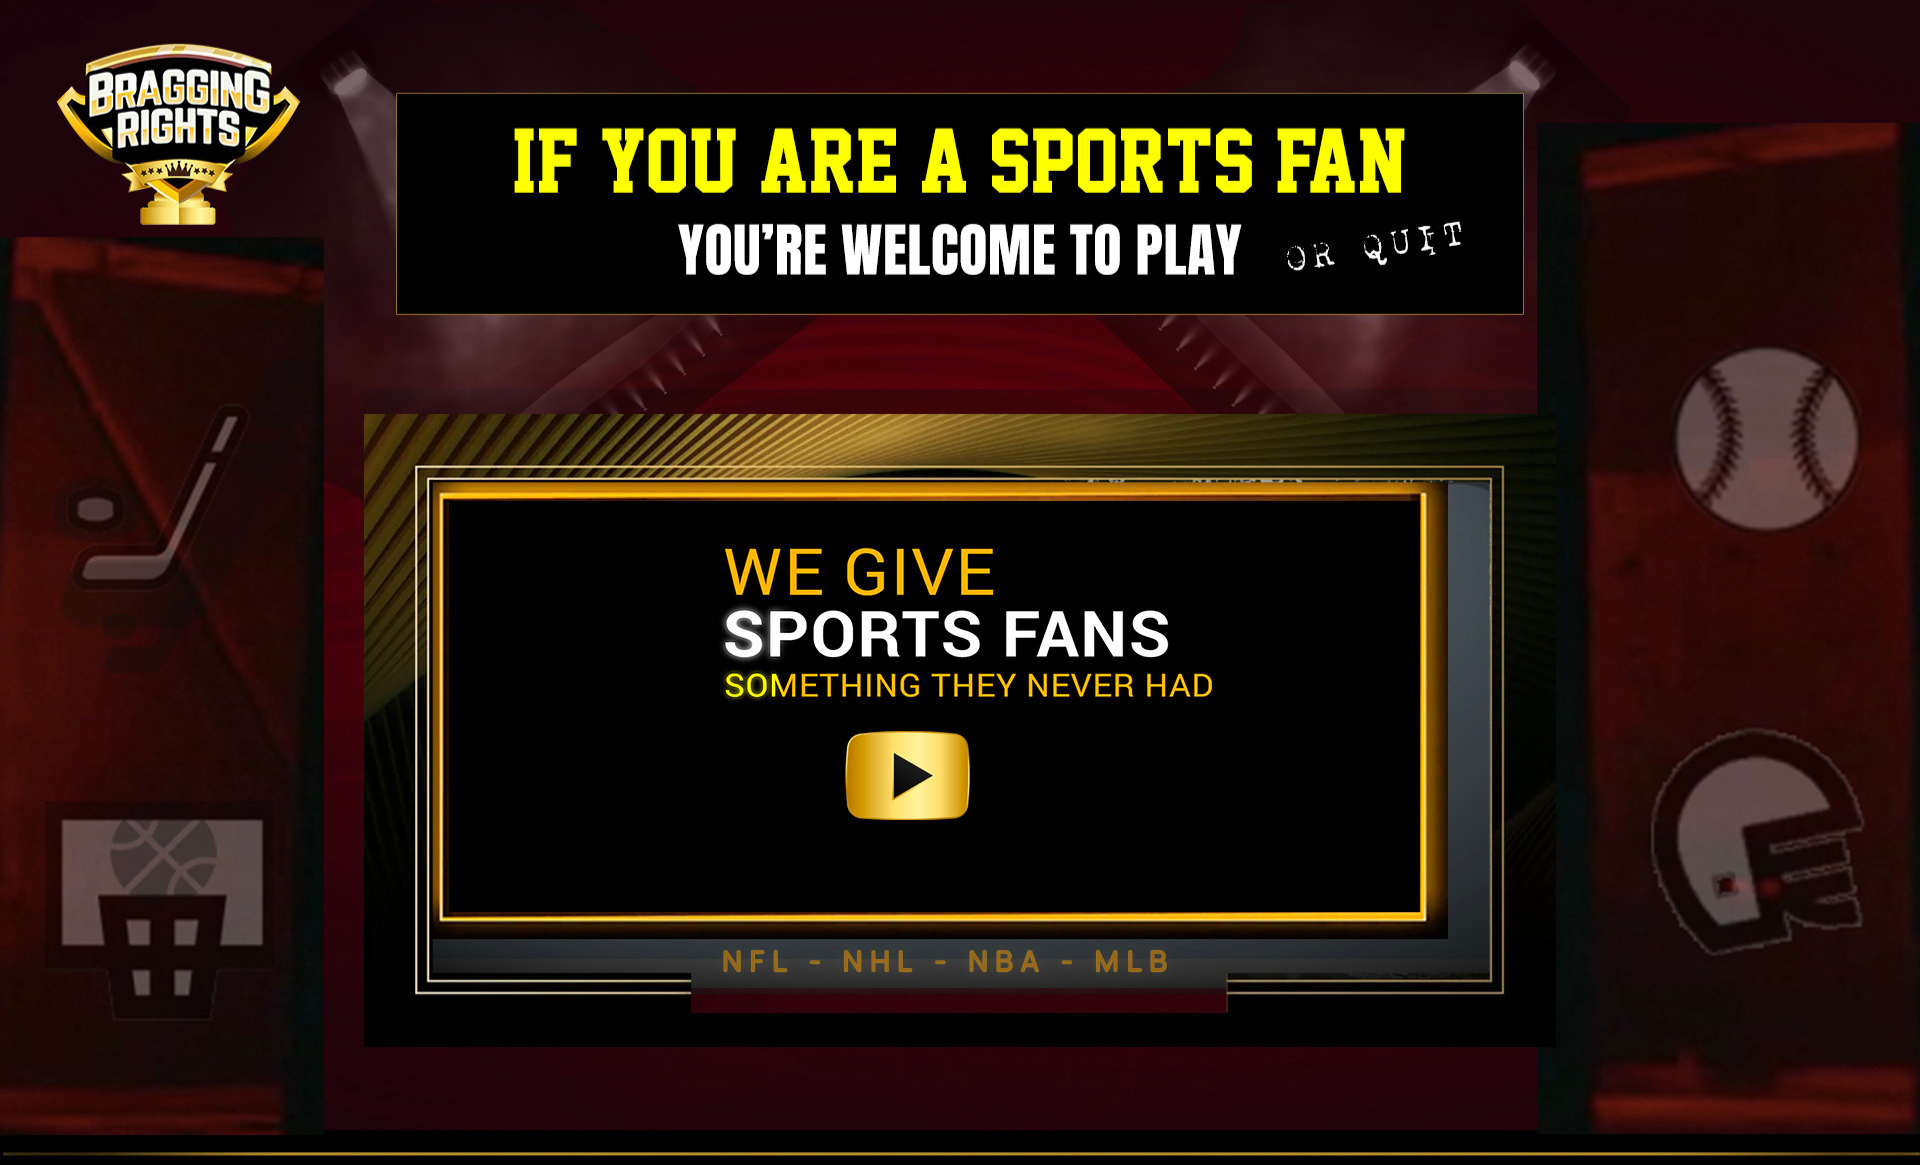
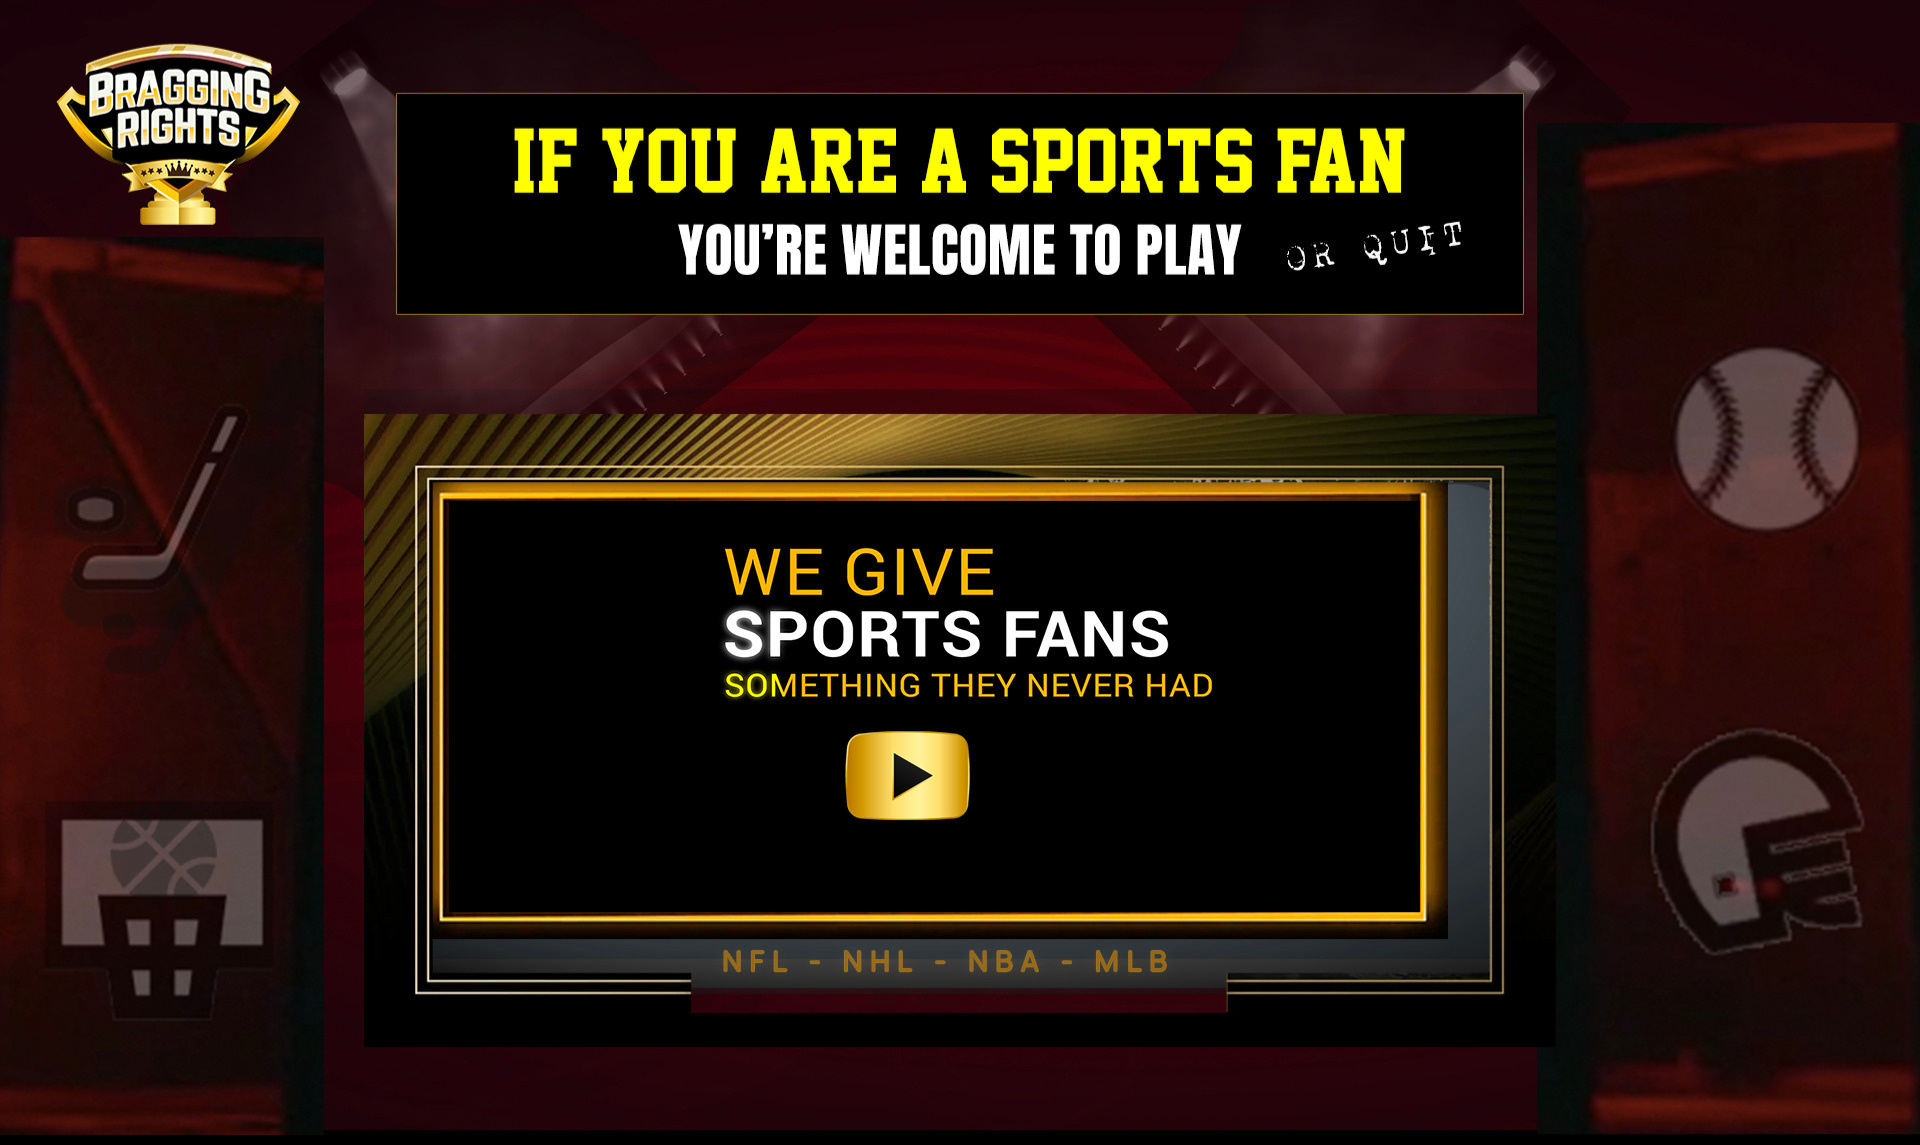
updated homepage

diff --git a/frontend/src/pages/home/home.js b/frontend/src/pages/home/home.js
@@ -1,36 +1,35 @@
-import React, { useEffect } from 'react';
-import { Grid, Container, Typography } from '@mui/material';
-import homepage from "../../assets/homepage.jpg";
-import image2 from "../../assets/bgloww.png"; // Replace with your image 2 URL
-import Footer from '../../components/Footer';
-import Navbar from '../../components/Navbar';
-
+import React, { useEffect } from "react";
+import { Grid, Container, Typography } from "@mui/material";
+import homepage from "../../assets/TopSection.png";
+import image2 from "../../assets/BottomSection.png"; // Replace with your image 2 URL
+import Footer from "../../components/Footer";
+import Navbar from "../../components/Navbar";
 
 const styles = {
   introContainer: {
-    position: 'absolute',
-    top: '50%',
-    left: '50%',
-    transform: 'translate(-50%, -50%)',
-    textAlign: 'center',
-    color: 'white',
-    width: '100%',
+    position: "absolute",
+    top: "50%",
+    left: "50%",
+    transform: "translate(-50%, -50%)",
+    textAlign: "center",
+    color: "white",
+    width: "100%",
   },
   contentContainer: {
-    padding: '20px',
+    padding: "20px",
   },
   header: {
-    fontWeight: 'italic',
+    fontWeight: "italic",
 
-    marginBottom: '-40px',
-    color:"#FFFF00"
+    marginBottom: "-40px",
+    color: "#FFFF00",
   },
   column: {
-    marginBottom: '20px',
+    marginBottom: "20px",
   },
   textContainer: {
-    padding: '10px',
-    borderRadius: '5px',
+    padding: "10px",
+    borderRadius: "5px",
   },
 };
 const iframeHTML = `
@@ -80,118 +79,117 @@ const HomePage = () => {
   }, []);
 
   return (
-
     <>
-    <Navbar/>
-    <Container>
-      <Grid container spacing={2} direction="column" alignItems="center">
-        {/* Image 1 with centered iframe */}
-        <Grid item xs={12}>
-          <div style={{ position: "relative" }}>
-            <img src={homepage} alt="Image 1" width="100%" />
-            <div
-              style={{
-                position: "absolute",
-                top: "65%",
-                left: "58%",
-                transform: "translate(-50%, -50%)",
-                width: "60%", // Adjust as needed
-                height: "auto", // Automatically adjust height based on width
-              }}
-              dangerouslySetInnerHTML={{ __html: iframeHTML }}
-            />
-          </div>
+      <Container>
+        <Navbar />
+        <Grid container spacing={2} direction="column" alignItems="center">
+          {/* Image 1 with centered iframe */}
+          <Grid item xs={12}>
+            <div style={{ position: "relative" }}>
+              <img src={homepage} alt="Image 1" width="100%" />
+              <div
+                style={{
+                  position: "absolute",
+                  top: "75%",
+                  left: "58%",
+                  transform: "translate(-50%, -50%)",
+                  width: "60%", // Adjust as needed
+                  height: "auto", // Automatically adjust height based on width
+                }}
+                dangerouslySetInnerHTML={{ __html: iframeHTML }}
+              />
+            </div>
+          </Grid>
+          {/* Image 2 */}
+          <Grid item xs={12} style={{ position: "relative" }}>
+            <img src={image2} alt="Image 2" style={{ width: "100%" }} />
+            <div style={styles.introContainer}>
+              <div style={styles.contentContainer}>
+                {/* <Typography variant="h4" component="h1" sx={styles.header}>
+                  THIS SITE IS BUILT FOR SPORTS FANS WHO LOVE
+                </Typography>
+                <br />
+                <br />
+                <Grid container spacing={1}> */}
+                {/* First Column */}
+                {/* <Grid item xs={12} sm={6} md={3} style={styles.column}>
+                    <div style={styles.textContainer}>
+                      <Typography variant="body1">
+                        <i className="fa fa-futbol-o mr-2 text-blue-500"></i>{" "}
+                        Watching Pre-Game Shows
+                      </Typography>
+                      <Typography variant="body1">
+                        <i className="fa fa-tv mr-2 text-blue-500"></i> Watching
+                        Post-Game Shows
+                      </Typography>
+                      <Typography variant="body1">
+                        <i className="fa fa-tv mr-2 text-blue-500"></i> And All
+                        The Games They Can
+                      </Typography>
+                    </div>
+                  </Grid> */}
+
+                {/* Second Column */}
+                {/* <Grid item xs={12} sm={6} md={3} style={styles.column}>
+                    <div style={styles.textContainer}>
+                      <Typography variant="body1">
+                        <i className="fa fa-bar-chart mr-2 text-blue-500"></i>{" "}
+                        Checking Stats
+                      </Typography>
+                      <Typography variant="body1">
+                        <i className="fa fa-share-alt mr-2 text-blue-500"></i>{" "}
+                        Sharing Stats
+                      </Typography>
+                      <Typography variant="body1">
+                        <i className="fa fa-tv mr-2 text-blue-500"></i>{" "}
+                        Predicting Stats
+                      </Typography>
+                    </div>
+                  </Grid> */}
+
+                {/* Third Column */}
+                {/* <Grid item xs={12} sm={6} md={3} style={styles.column}>
+                    <div style={styles.textContainer}>
+                      <Typography variant="body1">
+                        <i className="fa fa-trophy mr-2 text-blue-500"></i>{" "}
+                        Telling You Whose Gonna Win
+                      </Typography>
+                      <Typography variant="body1">
+                        <i className="fa fa-headphones mr-2 text-blue-500"></i>{" "}
+                        Listening To Friends Predictions
+                      </Typography>
+                      <Typography variant="body1">
+                        <i className="fa fa-tv mr-2 text-blue-500"></i>{" "}
+                        Predicting Who Is Going To Win
+                      </Typography>
+                    </div>
+                  </Grid> */}
+
+                {/* Fourth Column */}
+                {/* <Grid item xs={12} sm={6} md={3} style={styles.column}>
+                    <div style={styles.textContainer}>
+                      <Typography variant="body1" style={{ color: "#ffff00" }}>
+                        <i className="fa fa-microphone mr-2 text-blue-500"></i>{" "}
+                        SAYING 'I TOLD YOU SO!!'
+                      </Typography>
+                      <Typography variant="body1" style={{ color: "#ffff00" }}>
+                        <i className="fa fa-heart mr-2 text-blue-500"></i> AND
+                        LOVE HAVING
+                      </Typography>
+                      <Typography variant="body1" style={{ color: "#ffff00" }}>
+                        <i className="fa fa-tv mr-2 text-blue-500"></i> Ultimate
+                        Bragging Rights
+                      </Typography>
+                    </div>
+                  </Grid>
+                </Grid> */}
+              </div>
+            </div>
+          </Grid>
         </Grid>
-        {/* Image 2 */}
-        <Grid item xs={12} style={{ position: 'relative' }}>
-        <img src={image2} alt="Image 2" style={{ width: '100%' }} />
-        <div style={styles.introContainer}>
-          <div style={styles.contentContainer}>
-            <Typography variant="h4" component="h1" sx={styles.header}>
-              THIS SITE IS BUILT FOR SPORTS FANS WHO LOVE
-            </Typography>
-            <br />
-            <br />
-            <Grid container spacing={1}>
-              {/* First Column */}
-              <Grid item xs={12} sm={6} md={3} style={styles.column}>
-                <div style={styles.textContainer}>
-                  <Typography variant="body1">
-                    <i className="fa fa-futbol-o mr-2 text-blue-500"></i>{" "}
-                    Watching Pre-Game Shows
-                  </Typography>
-                  <Typography variant="body1">
-                    <i className="fa fa-tv mr-2 text-blue-500"></i> Watching
-                    Post-Game Shows
-                  </Typography>
-                  <Typography variant="body1">
-                    <i className="fa fa-tv mr-2 text-blue-500"></i> And All The
-                    Games They Can
-                  </Typography>
-                </div>
-              </Grid>
-
-              {/* Second Column */}
-              <Grid item xs={12} sm={6} md={3} style={styles.column}>
-                <div style={styles.textContainer}>
-                  <Typography variant="body1">
-                    <i className="fa fa-bar-chart mr-2 text-blue-500"></i>{" "}
-                    Checking Stats
-                  </Typography>
-                  <Typography variant="body1">
-                    <i className="fa fa-share-alt mr-2 text-blue-500"></i>{" "}
-                    Sharing Stats
-                  </Typography>
-                  <Typography variant="body1">
-                    <i className="fa fa-tv mr-2 text-blue-500"></i> Predicting
-                    Stats
-                  </Typography>
-                </div>
-              </Grid>
-
-              {/* Third Column */}
-              <Grid item xs={12} sm={6} md={3} style={styles.column}>
-                <div style={styles.textContainer}>
-                  <Typography variant="body1">
-                    <i className="fa fa-trophy mr-2 text-blue-500"></i> Telling
-                    You Whose Gonna Win
-                  </Typography>
-                  <Typography variant="body1">
-                    <i className="fa fa-headphones mr-2 text-blue-500"></i>{" "}
-                    Listening To Friends Predictions
-                  </Typography>
-                  <Typography variant="body1">
-                    <i className="fa fa-tv mr-2 text-blue-500"></i> Predicting
-                    Who Is Going To Win
-                  </Typography>
-                </div>
-              </Grid>
-
-              {/* Fourth Column */}
-              <Grid item xs={12} sm={6} md={3} style={styles.column}>
-                <div style={styles.textContainer}>
-                  <Typography variant="body1" style={{ color: "#ffff00" }}>
-                    <i className="fa fa-microphone mr-2 text-blue-500"></i>{" "}
-                    SAYING 'I TOLD YOU SO!!'
-                  </Typography>
-                  <Typography variant="body1" style={{ color: "#ffff00" }}>
-                    <i className="fa fa-heart mr-2 text-blue-500"></i> AND LOVE
-                    HAVING
-                  </Typography>
-                  <Typography variant="body1" style={{ color: "#ffff00" }}>
-                    <i className="fa fa-tv mr-2 text-blue-500"></i> Ultimate
-                    Bragging Rights
-                  </Typography>
-                </div>
-              </Grid>
-            </Grid>
-          </div>
-        </div>
-      </Grid>
-    </Grid>
-    </Container>
-    <Footer/>
-                </>
+        <Footer />
+      </Container>
+    </>
   );
 };
 

diff --git a/frontend/src/index.css b/frontend/src/index.css
@@ -5,7 +5,7 @@ body {
     sans-serif;
   -webkit-font-smoothing: antialiased;
   -moz-osx-font-smoothing: grayscale;
-  background: #212227;
+  background: #000000;
     font-size: 16px;
     width: 80%;
     margin: auto;
@@ -462,4 +462,8 @@ border-radius: 5px;
   border-radius: 5px;
   color:rgb(44, 221, 20);
 
+}
+
+.css-1bnhfwg-MuiGrid-root>.MuiGrid-item {
+  padding-top: 0px ;
 }
